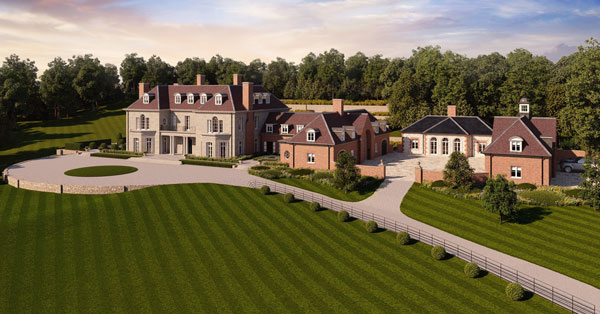
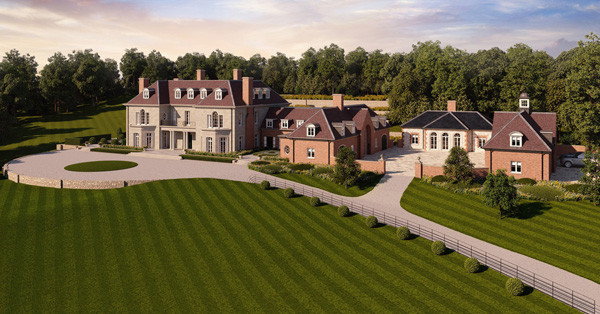
New blog post added, new project images added, new book added.

diff --git a/_includes/recent-projects.html b/_includes/recent-projects.html
@@ -5,20 +5,20 @@
 <ul class="list">
 
 <li class="third">
-<a class="fancybox" rel="group" href="/images/projects/eastridge.jpg" title="Stone Country House">
-<img class="lazy" src="/images/projects/thumbs/eastridge.jpg" alt="Stone Country House">
+<a class="fancybox" rel="group" href="/images/projects/20181204092019.jpg" title="Stone Country House">
+<img class="lazy" src="/images/projects/thumbs/20181204092019.jpg" alt="Stone Country House">
 </a>
 </li>
 
 <li class="third">
-<a class="fancybox" rel="group" href="/images/projects/house-in-wiltshire-north-elevation.jpg" title="Stone Country House North Elevation">
-<img class="lazy" src="/images/projects/thumbs/house-in-wiltshire-north-elevation.jpg" alt="Stone Country House North Elevation">
+<a class="fancybox" rel="group" href="/images/projects/stone-country-house-02.jpg" title="Stone Country House North Elevation">
+<img class="lazy" src="/images/projects/thumbs/stone-country-house-02.jpg" alt="Stone Country House North Elevation">
 </a>
 </li>
 
 <li class="third">
-<a class="fancybox" rel="group" href="/images/projects/south-perspective.jpg" title="Stone Country House">
-<img class="lazy" src="/images/projects/thumbs/south-perspective.jpg" alt="Stone Country House">
+<a class="fancybox" rel="group" href="/images/projects/stone-country-house-03.jpg" title="Stone Country House">
+<img class="lazy" src="/images/projects/thumbs/stone-country-house-03.jpg" alt="Stone Country House">
 </a>
 </li>
 

diff --git a/book.md b/book.md
@@ -9,11 +9,22 @@ article: article
 <ul class="list publications">
 
 	<li>
-		<img src="/images/publications/glad_to_be_pastiche.jpg">
-		<h3>Glad to be Pastiche and other essays</h3>
+		<img src="/images/publications/greatest-building-in-the-world.jpg">
+		<h3>The Greatest Building in the World and other Essays</h3>
 		<h4>Francis Terry</h4>
 		<p>
-			Glad to be Pastiche is a collection of short essays about architecture by Francis Terry, originally published on his blog. The subjects range from reflections on living in Washington D.C, to memories of his tutor Dalibor Vesely, as well as more academic studies, like his observations of English Palladian detailing. All the essays are written with a certain degree of humour reflecting Francis’ unconventional way of seeing the world.
+			<strong>The Greatest Building in the World and other Essays</strong> is a collection of short articles about architecture by Francis Terry, originally published on his blog. The first essay is about the Pantheon which he considers to be the greatest building in the world. The other essays cover architecturally interesting places, including Poundbury, Berlin, Potsdam, and the University of Virginia, as well as theoretical essays about the use of geometry in garden design and sustainable materials. All the essays were written in 2018 and reflecting Francis' unconventional way of understanding architecture.
+		</p><p>
+			You can purchase this book from our office for £10.00 plus postage and packaging.
+		</p>
+	</li>
+	
+	<li>
+		<img src="/images/publications/glad_to_be_pastiche.jpg">
+		<h3>Glad to be Pastiche and other Essays</h3>
+		<h4>Francis Terry</h4>
+		<p>
+			<strong>Glad to be Pastiche</strong> is a collection of short essays about architecture by Francis Terry, originally published on his blog. The subjects range from reflections on living in Washington D.C, to memories of his tutor Dalibor Vesely, as well as more academic studies, like his observations of English Palladian detailing. All the essays are written with a certain degree of humour reflecting Francis’ unconventional way of seeing the world.
 		</p><p>
 			You can purchase this book from our office for £10.00 plus postage and packaging.
 		</p>

diff --git a/_posts/2018-12-01-blog-a-quick-trip-to-ireland.md b/_posts/2018-12-01-blog-a-quick-trip-to-ireland.md
@@ -43,7 +43,7 @@ comments: /thoughts/a-quick-trip-to-ireland/
 </ul>
 
 <p>
-	Some hours later I staggered to bed. When I awoke the intense green of my room became evident. When I say green, I don’t mean some tasteful grey/green from a Farrow and Ball paint chart, I mean proper green, like the green from Barbar the King of the Elephants’ suit. The Irish have a taste for these extreme colours. A fashion started perhaps by Mariga Guinness who famously painted the Knight of Glin’s drawing room a dark inky blue.  These colours appear so confident and unselfconscious, nowadays highly paid interior decorators presumably earn a fortune specifying this rather outré palette but I imagine (and hope) that this particular green was chosen during a hurried trip to a nearby hardware store and this was the only shade they had.
+	Some hours later I staggered to bed. When I awoke the intense green of my room became evident. When I say green, I don’t mean some tasteful grey/green from a Farrow and Ball paint chart, I mean proper green, like the green from Babar the King of the Elephants’ suit. The Irish have a taste for these extreme colours. A fashion started perhaps by Mariga Guinness who famously painted the Knight of Glin’s drawing room a dark inky blue.  These colours appear so confident and unselfconscious, nowadays highly paid interior decorators presumably earn a fortune specifying this rather outré palette but I imagine (and hope) that this particular green was chosen during a hurried trip to a nearby hardware store and this was the only shade they had.
 </p>
 
 <ul class="list">
